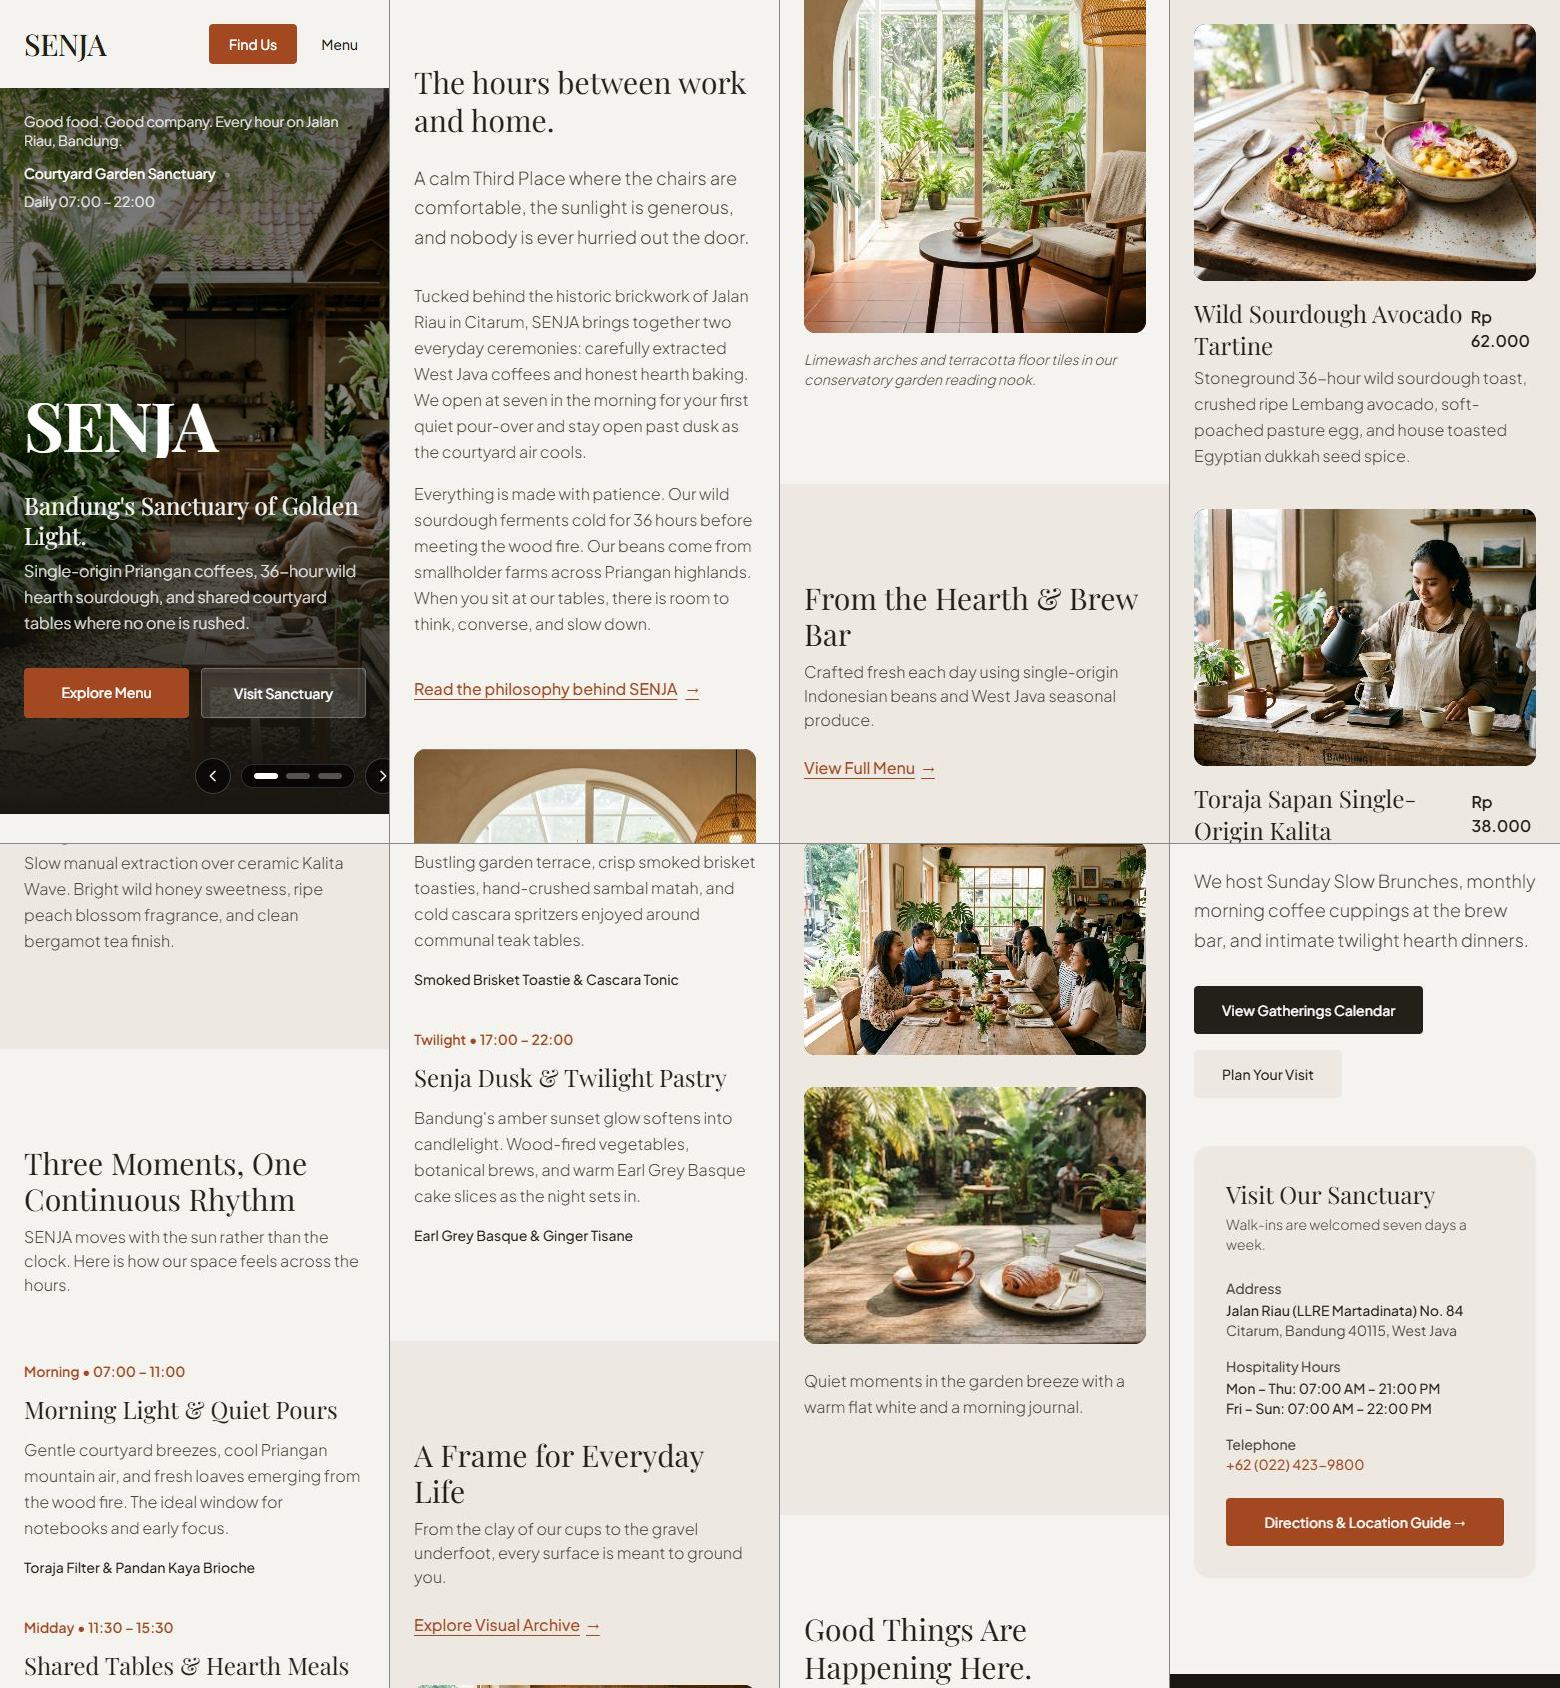
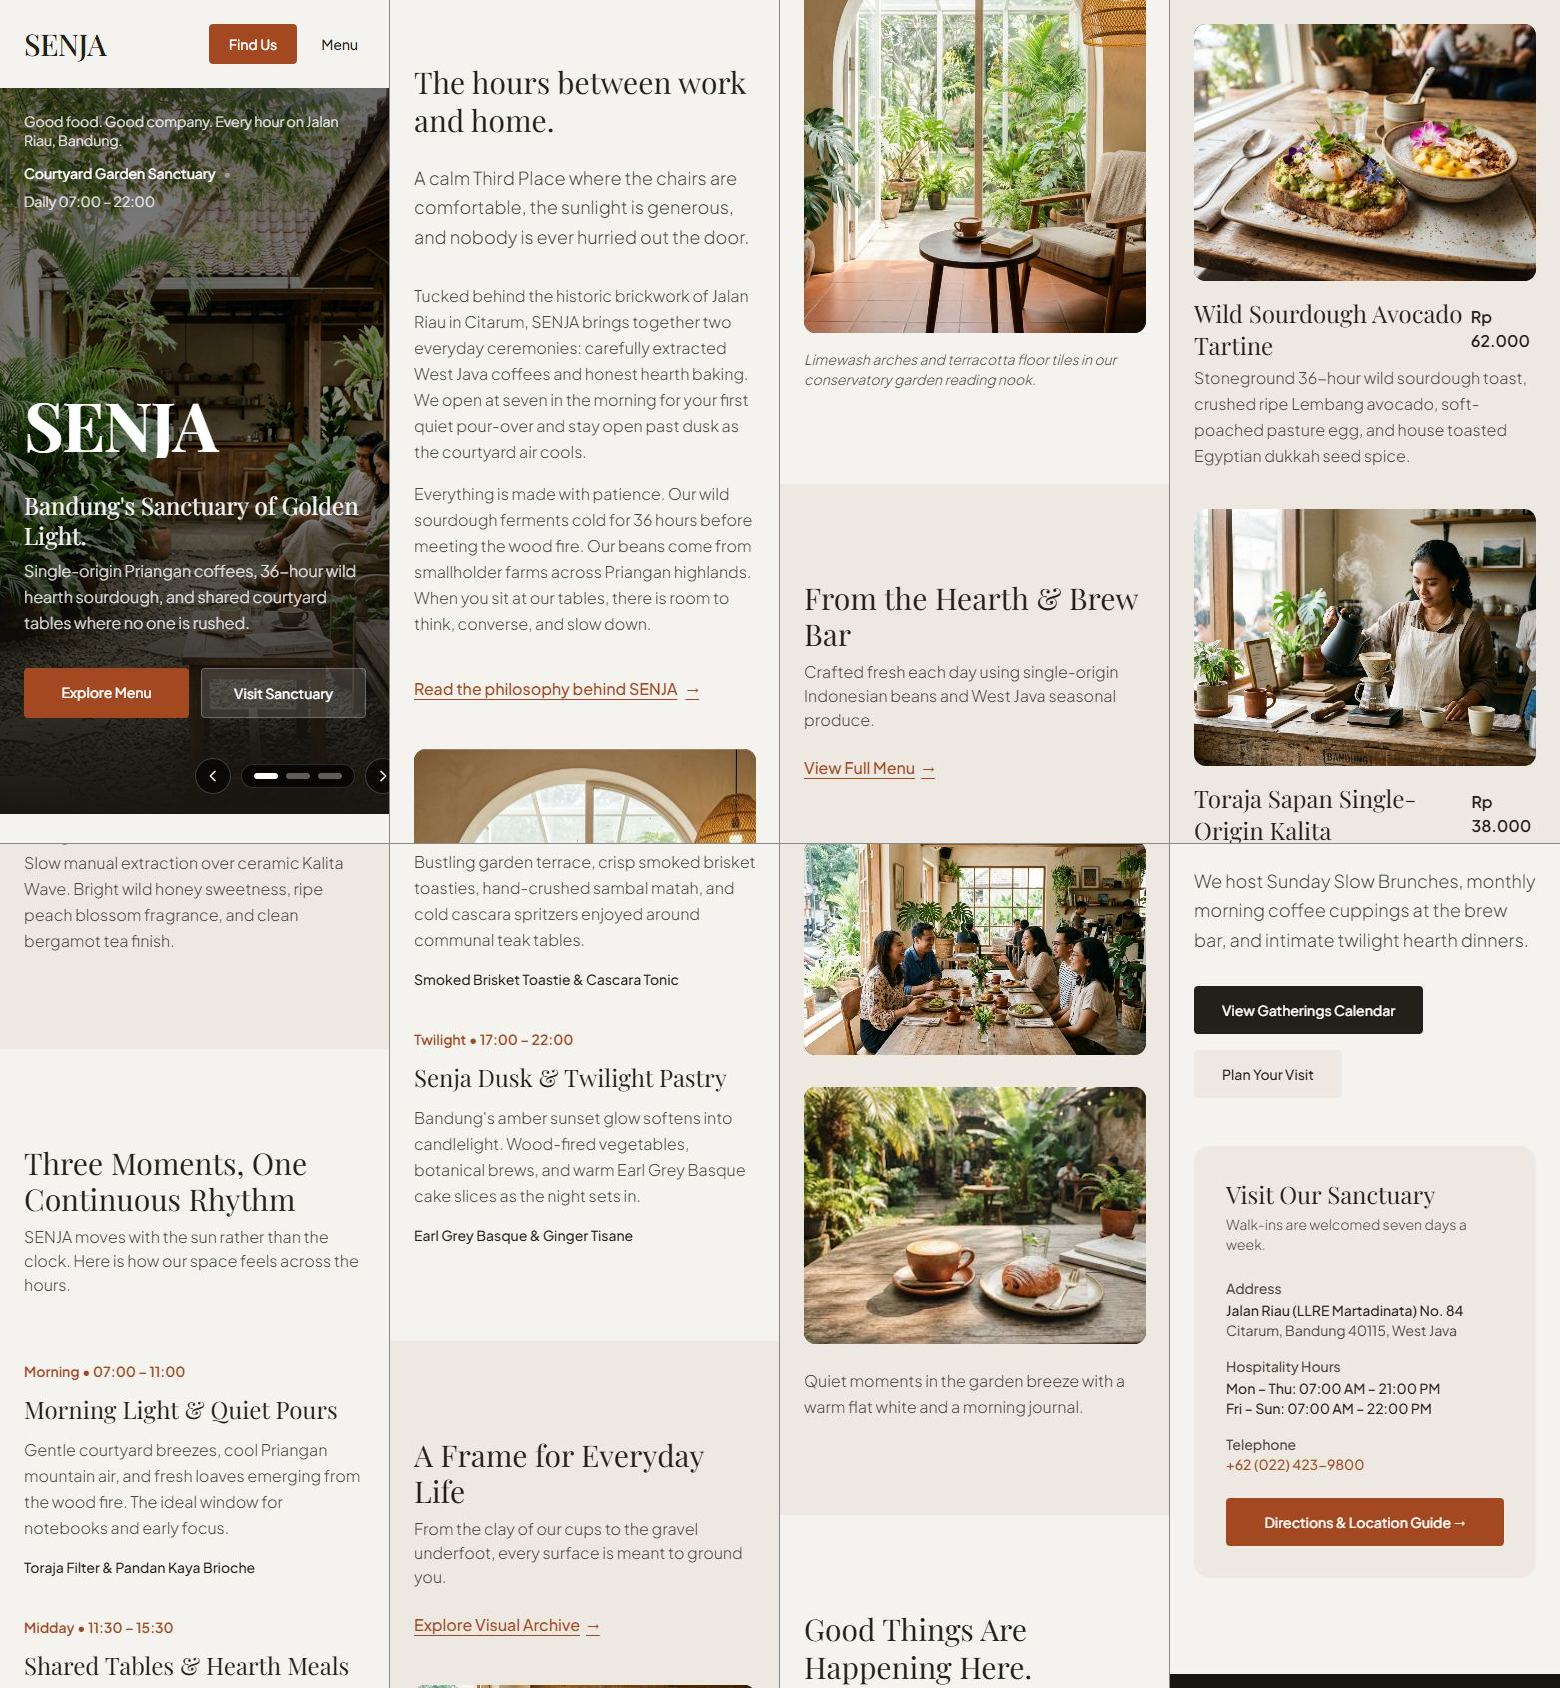
fix(hero): eliminate jerk on carousel loop using dual sentinels and seamless boundary reset

Changed region(s): [[0.0, 0.0308, 0.2462, 0.4005]]

diff --git a/index.html b/index.html
@@ -180,38 +180,47 @@
       <div class="absolute inset-0 z-0 overflow-hidden">
         <div 
           id="hero-track" 
-          class="flex w-[400%] h-full will-change-transform" 
-          style="transform: translateX(0%); transition: transform 1000ms cubic-bezier(0.22, 1, 0.36, 1);"
+          class="flex w-[500%] h-full will-change-transform" 
+          style="transform: translateX(-20%);"
         >
-          <!-- Slide 1: Courtyard Garden Sanctuary -->
-          <div class="w-1/4 h-full relative flex-shrink-0 hero-slide overflow-hidden" data-slide-index="0">
+          <!-- Sentinel Clone of Slide 3 (Pour-Over Coffee Ritual) at position 0 -->
+          <div class="w-1/5 h-full relative flex-shrink-0 hero-slide overflow-hidden" aria-hidden="true">
+            <img 
+              src="./images/gallery-pourover.jpg" 
+              alt="" 
+              class="w-full h-full object-cover filter brightness-[0.74] contrast-[1.05]"
+            />
+          </div>
+
+          <!-- Slide 1: Courtyard Garden Sanctuary (Real Index 0) at position 1 -->
+          <div class="w-1/5 h-full relative flex-shrink-0 hero-slide overflow-hidden" data-slide-index="0">
             <img 
               src="./images/gallery-courtyard.jpg" 
               alt="Sunlit tropical courtyard garden at SENJA Café &amp; Kitchen on Jalan Riau, Bandung" 
-              class="w-full h-full object-cover filter brightness-[0.74] contrast-[1.05] transition-transform duration-[6000ms] ease-out scale-100"
+              class="w-full h-full object-cover filter brightness-[0.74] contrast-[1.05]"
             />
           </div>
 
-          <!-- Slide 2: Warm Limewash Interior & Hearth Dining -->
-          <div class="w-1/4 h-full relative flex-shrink-0 hero-slide overflow-hidden" data-slide-index="1">
+          <!-- Slide 2: Warm Limewash Interior & Hearth Dining (Real Index 1) at position 2 -->
+          <div class="w-1/5 h-full relative flex-shrink-0 hero-slide overflow-hidden" data-slide-index="1">
             <img 
               src="./images/interior.jpg" 
               alt="Warm limewash arches and sunlit teak dining tables at SENJA Café &amp; Kitchen" 
-              class="w-full h-full object-cover filter brightness-[0.72] contrast-[1.05] transition-transform duration-[6000ms] ease-out scale-100"
+              class="w-full h-full object-cover filter brightness-[0.72] contrast-[1.05]"
             />
           </div>
 
-          <!-- Slide 3: Handcrafted Pour-Over Coffee Ritual -->
-          <div class="w-1/4 h-full relative flex-shrink-0 hero-slide overflow-hidden" data-slide-index="2">
+          <!-- Slide 3: Handcrafted Pour-Over Coffee Ritual (Real Index 2) at position 3 -->
+          <div class="w-1/5 h-full relative flex-shrink-0 hero-slide overflow-hidden" data-slide-index="2">
             <img 
               src="./images/gallery-pourover.jpg" 
               alt="Barista brewing single-origin Kalita Wave filter coffee at reclaimed timber bar" 
-              class="w-full h-full object-cover filter brightness-[0.74] contrast-[1.05] transition-transform duration-[6000ms] ease-out scale-100"
+              class="w-full h-full object-cover filter brightness-[0.74] contrast-[1.05]"
             />
           </div>
 
-          <!-- Slide 4: Infinite loop anchor (clone of Slide 1) -->
-          <div class="w-1/4 h-full relative flex-shrink-0 hero-slide overflow-hidden" aria-hidden="true">
+          <!-- Sentinel Clone of Slide 1 (Courtyard Garden Sanctuary) at position 4 -->
+          <div class="w-1/5 h-full relative flex-shrink-0 hero-slide overflow-hidden" aria-hidden="true">
             <img 
               src="./images/gallery-courtyard.jpg" 
               alt="" 
@@ -687,7 +696,7 @@
         }, 2500);
       }
 
-      // Hero Background Sliding Track Controller (4s interval)
+      // Hero Background Sliding Track Controller (Seamless Infinite Loop)
       const slider = document.getElementById('hero-slider');
       const track = document.getElementById('hero-track');
       const prevBtn = document.getElementById('hero-prev');
@@ -696,86 +705,91 @@
       const barButtons = document.querySelectorAll('.hero-indicator');
 
       if (slider && track) {
-        const slides = track.querySelectorAll('.hero-slide');
         const captions = [
           "Courtyard Garden Sanctuary",
           "Hearth Dining & Conservatory Arches",
           "Single-Origin Priangan Brew Bar"
         ];
         const TOTAL_UNIQUE_SLIDES = 3;
-        let currentIndex = 0;
+        // Track layout (5 slides, width 500%, 20% each):
+        // Pos 0: Sentinel clone of Slide 2 (Brew Bar)
+        // Pos 1: Slide 0 (Courtyard Garden Sanctuary)  <-- Initial position
+        // Pos 2: Slide 1 (Hearth Dining)
+        // Pos 3: Slide 2 (Brew Bar)
+        // Pos 4: Sentinel clone of Slide 0 (Courtyard)
+        let trackPosition = 1;
         let isTransitioning = false;
         let autoInterval = null;
         const AUTOPLAY_DELAY = 4000;
+        const SLIDE_DURATION = 900; // ms
 
-        function updateSlide(targetIndex, animate = true) {
-          if (animate) {
-            isTransitioning = true;
-            track.style.transition = 'transform 1000ms cubic-bezier(0.22, 1, 0.36, 1)';
-          } else {
-            track.style.transition = 'none';
-          }
+        // Map trackPosition (0..4) to logical slide index (0..2)
+        function getLogicalIndex(pos) {
+          if (pos === 0) return 2; // Clone of slide 2
+          if (pos === 4) return 0; // Clone of slide 0
+          return pos - 1;
+        }
 
-          track.style.transform = `translateX(-${targetIndex * 25}%)`;
-
-          const displayIndex = targetIndex % TOTAL_UNIQUE_SLIDES;
+        function updateUI(logicalIndex) {
           if (captionEl) {
             captionEl.style.opacity = '0';
             setTimeout(() => {
-              captionEl.textContent = captions[displayIndex];
+              captionEl.textContent = captions[logicalIndex];
               captionEl.style.opacity = '1';
-            }, 200);
+            }, 180);
           }
           if (barButtons && barButtons.length) {
             barButtons.forEach((btn, i) => {
-              if (i === displayIndex) {
+              if (i === logicalIndex) {
                 btn.classList.add('bg-white');
-                btn.classList.remove('bg-white/30');
+                btn.classList.remove('bg-white/35');
               } else {
                 btn.classList.remove('bg-white');
-                btn.classList.add('bg-white/30');
+                btn.classList.add('bg-white/35');
               }
             });
           }
+        }
 
-          // Subtle Ken-burns scale effect on active slide
-          slides.forEach((slide, idx) => {
-            const img = slide.querySelector('img');
-            if (img) {
-              if (idx === targetIndex || (targetIndex === 3 && idx === 0)) {
-                img.style.transform = 'scale(1.05)';
-              } else {
-                img.style.transform = 'scale(1)';
-              }
-            }
-          });
+        function moveToPosition(pos, animate = true) {
+          trackPosition = pos;
+          if (animate) {
+            isTransitioning = true;
+            track.style.transition = `transform ${SLIDE_DURATION}ms cubic-bezier(0.16, 1, 0.3, 1)`;
+          } else {
+            track.style.transition = 'none';
+          }
+          track.style.transform = `translateX(-${trackPosition * 20}%)`;
+          if (animate) {
+            updateUI(getLogicalIndex(trackPosition));
+          }
         }
 
         function nextSlide() {
           if (isTransitioning) return;
-          currentIndex++;
-          updateSlide(currentIndex, true);
+          moveToPosition(trackPosition + 1, true);
         }
 
         function prevSlide() {
           if (isTransitioning) return;
-          if (currentIndex === 0) {
-            // Jump to clone anchor first, then smoothly slide to index 2
-            currentIndex = TOTAL_UNIQUE_SLIDES;
-            updateSlide(currentIndex, false);
-            void track.offsetWidth; // force reflow
-          }
-          currentIndex--;
-          updateSlide(currentIndex, true);
+          moveToPosition(trackPosition - 1, true);
         }
 
-        // When transition ends on clone slide 3 (identical to slide 0), silently reset to slide 0
-        track.addEventListener('transitionend', () => {
+        // Seamless Infinite Loop Boundary Reset on transitionend
+        track.addEventListener('transitionend', (e) => {
+          // Strictly filter so only track transform triggers reset
+          if (e.target !== track || e.propertyName !== 'transform') return;
           isTransitioning = false;
-          if (currentIndex >= TOTAL_UNIQUE_SLIDES) {
-            currentIndex = 0;
-            updateSlide(0, false);
-            void track.offsetWidth; // force reflow
+
+          // If reached forward sentinel (pos 4 = clone of slide 0), silently jump to pos 1 (real slide 0)
+          if (trackPosition === 4) {
+            moveToPosition(1, false);
+            void track.offsetWidth; // flush styles synchronously
+          }
+          // If reached backward sentinel (pos 0 = clone of slide 2), silently jump to pos 3 (real slide 2)
+          else if (trackPosition === 0) {
+            moveToPosition(3, false);
+            void track.offsetWidth;
           }
         });
 
@@ -792,11 +806,14 @@
         if (barButtons) {
           barButtons.forEach((btn) => {
             btn.addEventListener('click', () => {
+              if (isTransitioning) return;
               const idx = parseInt(btn.dataset.index, 10);
-              if (!isNaN(idx) && idx !== currentIndex && !isTransitioning) {
-                currentIndex = idx;
-                updateSlide(currentIndex, true);
-                resetTimer();
+              if (!isNaN(idx)) {
+                const targetPos = idx + 1;
+                if (targetPos !== trackPosition) {
+                  moveToPosition(targetPos, true);
+                  resetTimer();
+                }
               }
             });
           });
@@ -826,8 +843,18 @@
         slider.addEventListener('touchstart', stopTimer, { passive: true });
         slider.addEventListener('touchend', startTimer, { passive: true });
 
-        // Initialize active state
-        updateSlide(0, false);
+        // Pause autoplay if user switches tabs to prevent queued animation bursts
+        document.addEventListener('visibilitychange', () => {
+          if (document.hidden) {
+            stopTimer();
+          } else {
+            startTimer();
+          }
+        });
+
+        // Initialize active state at position 1 (real slide 0)
+        moveToPosition(1, false);
+        updateUI(0);
         startTimer();
       }
     });
